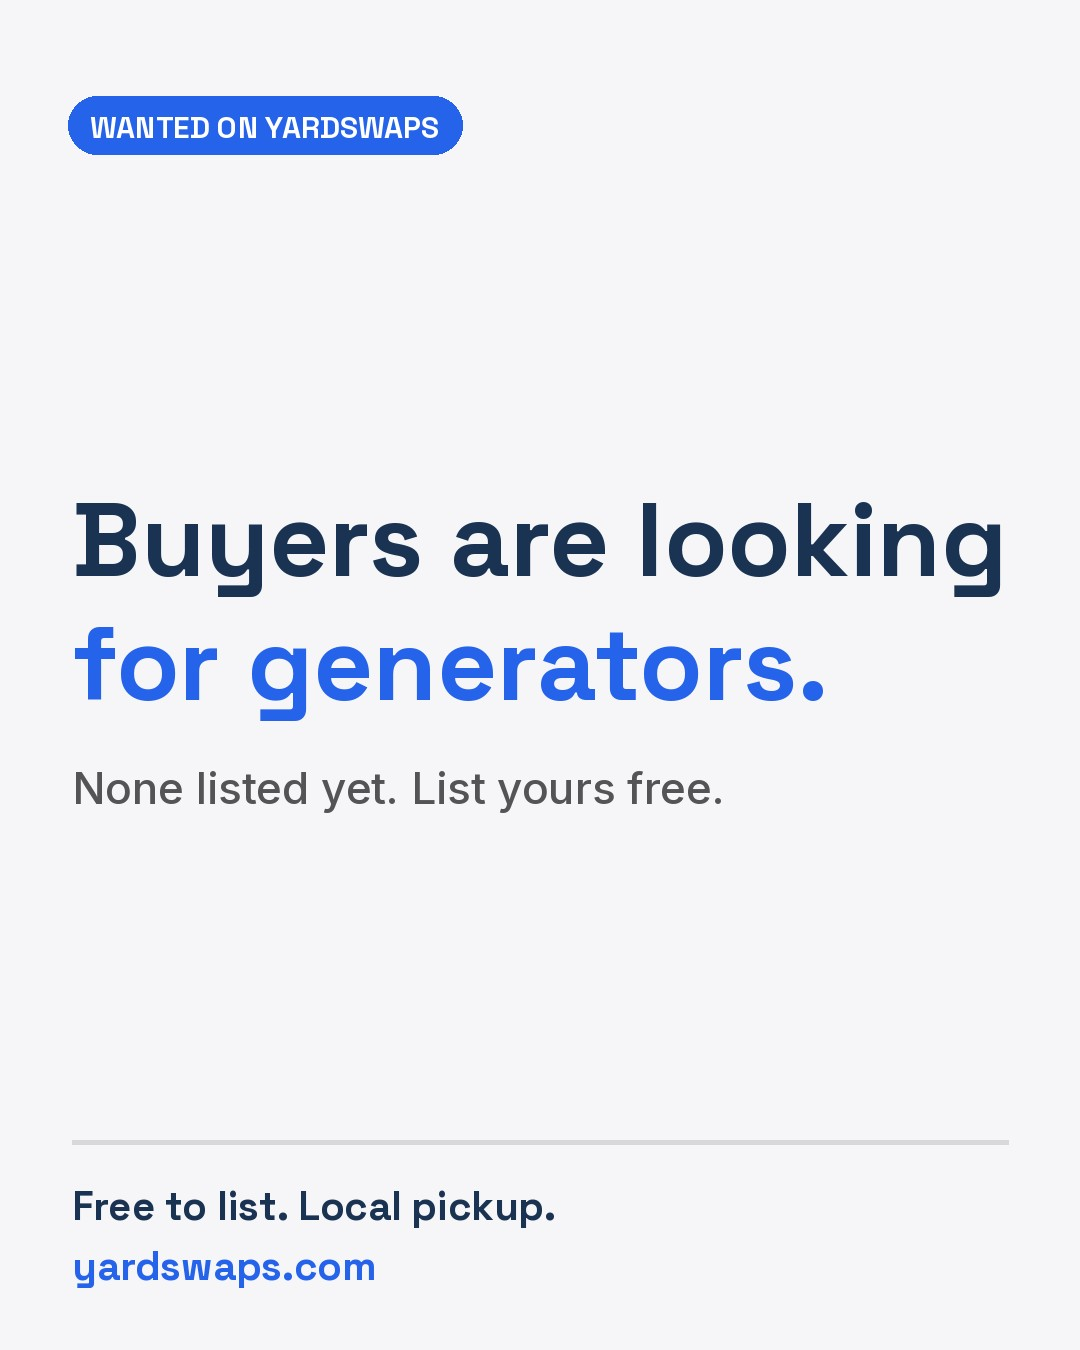
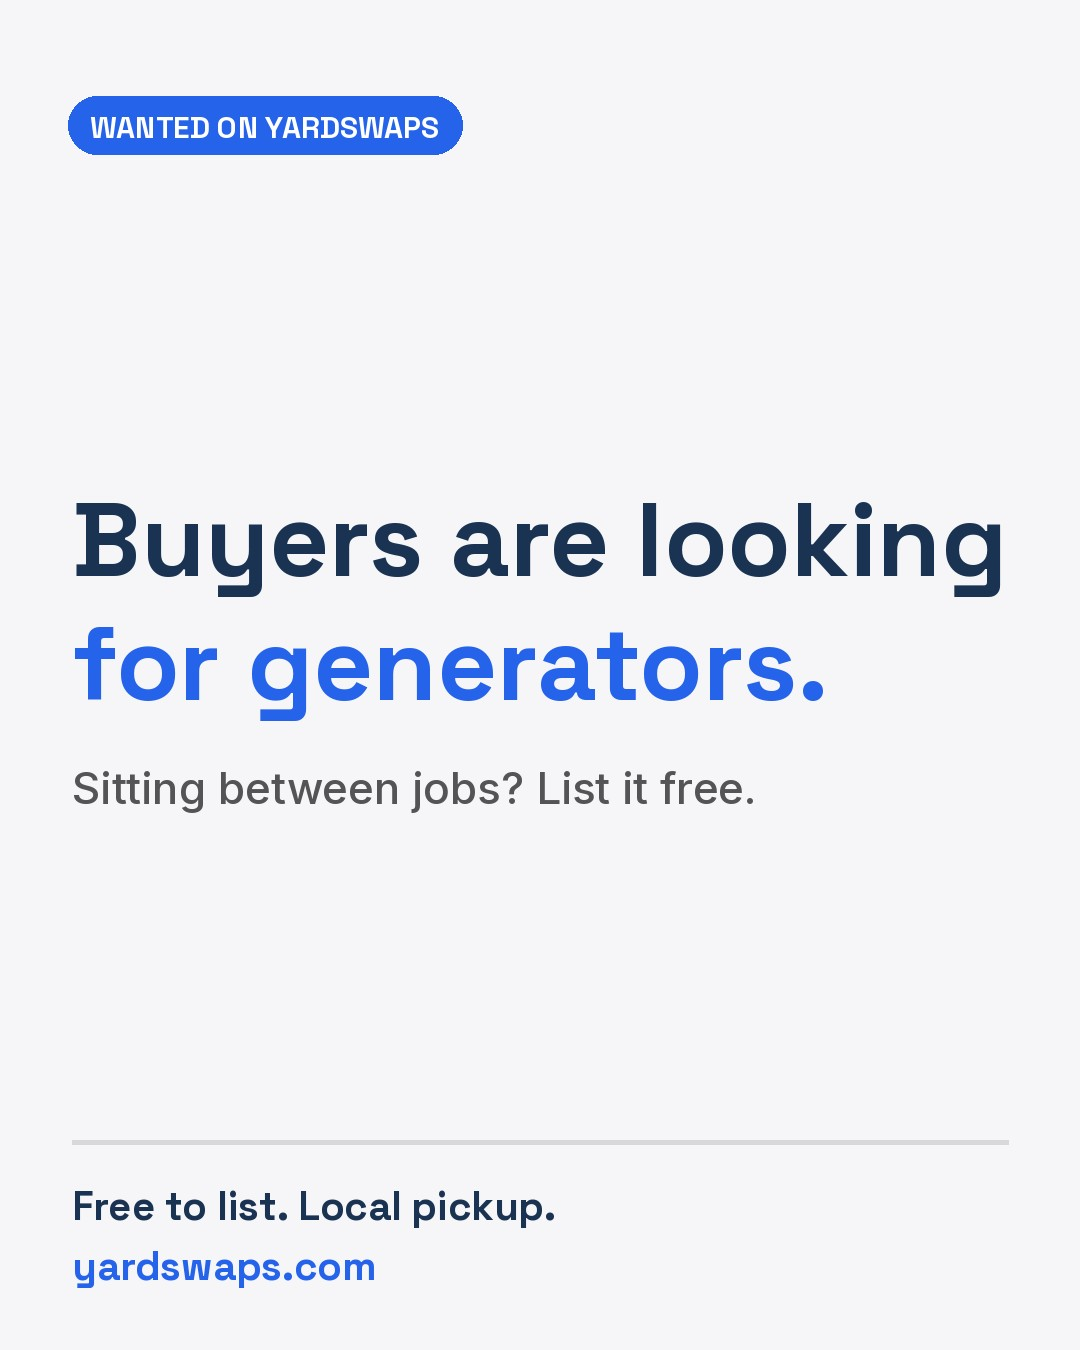
Wanted cards: buyer interest only (#44)
* Add YouTube long-video thumbnails for API thumbnail upload

Claude-Session: https://claude.ai/code/session_01LSYGzfXN6BuFVtE2S41JDF

* Drop blank walkthrough cover

Claude-Session: https://claude.ai/code/session_01LSYGzfXN6BuFVtE2S41JDF

* Add fixed walkthrough, seller course and sponsor covers to thumbnails/

Claude-Session: https://claude.ai/code/session_01LSYGzfXN6BuFVtE2S41JDF

* Daily Just listed posts: one live listing a day on Instagram and Facebook

listings/just_listed.py queues a branded card per listing (faces skipped,
digit text blurred), a Claude review task approves it, and the workflow
posts the oldest approved card at 2:15 pm Central. The Reels poster and the
metrics snapshot count these posts as ours.

Claude-Session: https://claude.ai/code/session_01LSYGzfXN6BuFVtE2S41JDF

* Just listed: rotate the closing question per card, not per post count

Claude-Session: https://claude.ai/code/session_01LSYGzfXN6BuFVtE2S41JDF

* Profile check: one source for every bio, weekly Facebook and Instagram sync

Claude-Session: https://claude.ai/code/session_01LSYGzfXN6BuFVtE2S41JDF

* Profile check: keep both app store links in the Facebook website field

Claude-Session: https://claude.ai/code/session_01LSYGzfXN6BuFVtE2S41JDF

* Just listed: "Buyers are looking" seller-recruitment cards between listing cards

Claude-Session: https://claude.ai/code/session_01LSYGzfXN6BuFVtE2S41JDF

* Just listed: reworded fleet trucks wanted post (no Peterbilt claim)
[…]

Changed region(s): [[0.3972, 0.56, 0.7028, 0.6222], [0.0611, 0.56, 0.3667, 0.6222]]

diff --git a/listings/just_listed.py b/listings/just_listed.py
@@ -351,8 +351,18 @@ def wanted_link(w, source):
     return f"{SITE}/sell-equipment?{tag}"
 
 
+# Alan 2026-11-10: wanted copy states buyer interest only. Saying searches came up
+# empty, or that none / zero / one are listed, reads as "the marketplace is empty".
+EMPTY_CLAIM = re.compile(r"(?i)\b(none|nothing|zero)\b|found no\b|came up empty|\bone (\w+ )?(is |are )?listed|no \w+ listed")
+
+
+def empty_claim(w):
+    text = " ".join([w.get("body", ""), w.get("card_sub", ""), " ".join(w.get("card", []))])
+    return EMPTY_CLAIM.search(text)
+
+
 def claim_holds(w, listings, complete):
-    """True while the post's "none listed" claim is still true on the live site."""
+    """Optional live-count check (no post uses one since 2026-11-10); True when a post has none."""
     c = w.get("check")
     if not c:
         return True
@@ -445,6 +455,9 @@ def prep_wanted(listings, complete, queue, posted, dry):
                                                          last.get(f"wanted-{iw[1]['key']}", ""), iw[0])):
         wid = f"wanted-{w['key']}"
         if last.get(wid, "") > repeat_cut or wid in rejected:
+            continue
+        if empty_claim(w):
+            print(f"::warning::skip {wid}: its copy says '{empty_claim(w).group(0)}'; wanted posts state buyer interest only")
             continue
         if not claim_holds(w, listings, complete):
             print(f"  skip {wid}: its claim no longer holds on the live site")

diff --git a/listings/README.md b/listings/README.md
@@ -53,7 +53,7 @@ Approve everything else. A rejection needs a one-line `reason`.
 
 Between listing cards, prep queues one seller-recruitment card from `wanted.json`: "Buyers are looking for generators", and so on, built from real 30-day search data (seller-growth/WANTED-POSTS.md).
 - At most one every 3 days, the same one at most once in 30 days, and they don't take a listing slot.
-- A post is skipped once its claim stops being true on the live site (for example a generator gets listed), and all of them stop once `as_of` is more than 30 days old. Refresh the numbers and `as_of` from the newest `[GrowthDigest]`.
+- Copy states buyer interest only (Alan, 2026-11-10): never that searches came up empty, buyers found nothing, or that none, zero or one are listed, because to a seller that reads as "the marketplace is empty". prep skips any post whose copy says so. All of them stop once `as_of` is more than 30 days old. Refresh the numbers and `as_of` from the newest `[GrowthDigest]`.
 - The Facebook caption links the category's seller page, `/sell-equipment/<slug>`, only once that page answers 200; until then it links `/sell-equipment` (those pages went live with Marketplace PR #261 on 2026-11-09). A post with `link_path` links that page instead: the Craigslist card opens `/sell?import=craigslist`, the Sell form with the paste box open. Tag: `utm_campaign=post_wanted-<slug>` (or `-<key>`).
 - Spanish versions wait for Alan or Emmanuel to proofread.
 
